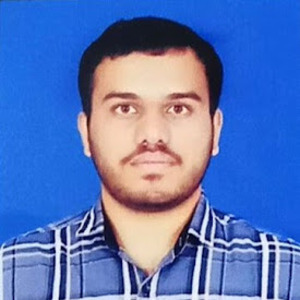
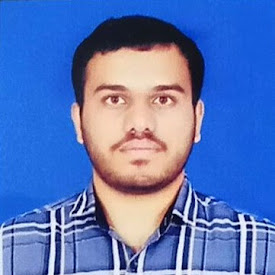
Restore original author images and use CSS for sizing and text justification

diff --git a/DEMO/README.md b/DEMO/README.md
@@ -2051,11 +2051,11 @@ A structured comparison of the $R_{on}/g_m$ methodology against the $g_m/I_D$ me
 Pre-simulation V<sub>bias</sub> predictions were within <b>±75 mV</b> of post-simulation values; I<sub>peak</sub> predicted within ~15%.
 </div>
 
-<p>† J. Conrad <i>et al.</i>: <i>"Unfortunately, Section II-B is not really practical for designing a RAMP… This makes a design-by-equation cumbersome and not realizable."</i> [TCAS-I 2020, Sec. II-C]</p>
-<p>‡ J. Conrad <i>et al.</i>: <i>"PVT variations are not encountered during the circuit optimization, because this would require many transient simulations to evaluate one iteration of the optimizer."</i> [TCAS-I 2020, Sec. V-E]</p>
-<p>§ Deadzone bias values read from the V<sub>bias</sub> vs. log(R<sub>on</sub>/g<sub>m</sub>) LUT plot at R<sub>on</sub>/g<sub>m</sub> = 50 × 10<sup>6</sup> (per device, post-multiplier), I<sub>bias</sub> = 0.5 µA (unit cell), I<sub>bias</sub> = 2 µA (Overall IBA).</p>
-<p>¶ J. Conrad <i>et al.</i>: <i>"the optimizer goal for the accuracy was readjusted ×4 smaller, i.e. 0.25 for the cost function."</i> [TCAS-I 2020, Sec. IV-B.3]</p>
-<p>** J. Conrad <i>et al.</i>, Table II: 180 nm power cost function = 12.99 (target: 1.0), failing the power constraint by 13×.</p>
+<p style="text-align: justify; margin-bottom: 20px;">† J. Conrad <i>et al.</i>: <i>"Unfortunately, Section II-B is not really practical for designing a RAMP… This makes a design-by-equation cumbersome and not realizable."</i> [TCAS-I 2020, Sec. II-C]</p>
+<p style="text-align: justify; margin-bottom: 20px;">‡ J. Conrad <i>et al.</i>: <i>"PVT variations are not encountered during the circuit optimization, because this would require many transient simulations to evaluate one iteration of the optimizer."</i> [TCAS-I 2020, Sec. V-E]</p>
+<p style="text-align: justify; margin-bottom: 20px;">§ Deadzone bias values read from the V<sub>bias</sub> vs. log(R<sub>on</sub>/g<sub>m</sub>) LUT plot at R<sub>on</sub>/g<sub>m</sub> = 50 × 10<sup>6</sup> (per device, post-multiplier), I<sub>bias</sub> = 0.5 µA (unit cell), I<sub>bias</sub> = 2 µA (Overall IBA).</p>
+<p style="text-align: justify; margin-bottom: 20px;">¶ J. Conrad <i>et al.</i>: <i>"the optimizer goal for the accuracy was readjusted ×4 smaller, i.e. 0.25 for the cost function."</i> [TCAS-I 2020, Sec. IV-B.3]</p>
+<p style="text-align: justify; margin-bottom: 20px;">** J. Conrad <i>et al.</i>, Table II: 180 nm power cost function = 12.99 (target: 1.0), failing the power constraint by 13×.</p>
 <p style="margin-top:6px;">
   <img src="https://raw.githubusercontent.com/chennakeshavadasa/gmid_IHP130/refs/heads/main/Plots_Images/Notebook_Figs/happy.svg" width="16" height="16"/> = fully supported / available pre-simulation &nbsp;&nbsp;
   <img src="https://raw.githubusercontent.com/chennakeshavadasa/gmid_IHP130/refs/heads/main/Plots_Images/Notebook_Figs/sad.svg" width="16" height="16"/> = not available / requires post-simulation discovery
@@ -2111,43 +2111,43 @@ This distinction becomes especially significant for dynamic amplifier design, wh
 
 ## About the Authors
 
-<p>
-<a href="https://www.linkedin.com/in/nithin-purushothama-5b236113b" target="_blank"><img src="https://raw.githubusercontent.com/chennakeshavadasa/CAC/main/DEMO/assets/NithinPurushothama_pic.jpg" align="left" width="120" style="margin-right: 15px;" /></a>
+<p style="text-align: justify; margin-bottom: 20px;">
+<a href="https://www.linkedin.com/in/nithin-purushothama-5b236113b" target="_blank"><img src="https://raw.githubusercontent.com/chennakeshavadasa/CAC/main/DEMO/assets/NithinPurushothama_pic.jpg" align="left" style="width: 120px; height: 150px; object-fit: cover; object-position: top; margin-right: 15px; border-radius: 8px;" /></a>
 <strong>Nithin Purushothama</strong> received the B.Tech. degree in electronics and communication engineering from Visvesvaraya Technological University (VTU), India, in 2025. He is currently working as an Analog Design Engineer at Omni Design Technologies, Bengaluru, India. He previously worked as a Research Intern at the Low-Power Circuits and Systems (LP-CAS) Lab, IIT Gandhinagar, under the guidance of Prof. Madhav K. Pathak, where he worked on ring amplifiers and their applications in low-power LDOs. His research interests include high-speed and low-power data converters, dynamic and ring amplifiers, biomedical and wearable circuits, energy-efficient circuits for sensing and computation, algorithm–circuit co-design and emerging computing architectures. He is currently seeking Ph.D. opportunities for Fall 2027 in analog and mixed-signal integrated circuits and related areas.
 <br clear="all" />
 </p>
 <br>
 
-<p>
-<a href="https://www.linkedin.com/in/pramoda-s-r-9946891a2" target="_blank"><img src="https://raw.githubusercontent.com/chennakeshavadasa/CAC/main/DEMO/assets/Pramoda_SR_pic.jpg" align="left" width="120" style="margin-right: 15px;" /></a>
+<p style="text-align: justify; margin-bottom: 20px;">
+<a href="https://www.linkedin.com/in/pramoda-s-r-9946891a2" target="_blank"><img src="https://raw.githubusercontent.com/chennakeshavadasa/CAC/main/DEMO/assets/Pramoda_SR_pic.jpg" align="left" style="width: 120px; height: 150px; object-fit: cover; object-position: top; margin-right: 15px; border-radius: 8px;" /></a>
 <strong>Pramoda S R</strong> is currently working as an AI Engineer, with experience in machine learning, deep learning, computer vision, and AI-based application development. His research interests include artificial intelligence and deep learning, with an emphasis on computer vision, real-time inference systems, generative AI, and intelligent applications.
 <br clear="all" />
 </p>
 <br>
 
-<p>
-<a href="https://www.linkedin.com/search/results/all/?keywords=Suyajnaa%20Jagannath%20Gowda" target="_blank"><img src="https://raw.githubusercontent.com/chennakeshavadasa/CAC/main/DEMO/assets/Suyajnaa_Pic.jpeg" align="left" width="120" style="margin-right: 15px;" /></a>
+<p style="text-align: justify; margin-bottom: 20px;">
+<a href="https://www.linkedin.com/search/results/all/?keywords=Suyajnaa%20Jagannath%20Gowda" target="_blank"><img src="https://raw.githubusercontent.com/chennakeshavadasa/CAC/main/DEMO/assets/Suyajnaa_Pic.jpeg" align="left" style="width: 120px; height: 150px; object-fit: cover; object-position: top; margin-right: 15px; border-radius: 8px;" /></a>
 <strong>Suyajnaa Jagannath Gowda</strong> is currently pursuing the B.E. degree in electronics and communication engineering at The National Institute of Engineering, Mysore, India. Her research interests include analog and mixed-signal circuits, silicon photonics, optical sensing, embedded systems, machine learning, and signal processing. Her work includes silicon photonics-based micro-ring resonator gyroscopes, satellite telemetry analysis, MATLAB-based underwater acoustic systems, and ESP32-based intelligent IC testing.
 <br clear="all" />
 </p>
 <br>
 
-<p>
-<a href="https://www.linkedin.com/search/results/all/?keywords=Runpeng%20Gao" target="_blank"><img src="https://raw.githubusercontent.com/chennakeshavadasa/CAC/main/DEMO/assets/Runpeng_Gao_pic.jpeg" align="left" width="120" style="margin-right: 15px;" /></a>
+<p style="text-align: justify; margin-bottom: 20px;">
+<a href="https://www.linkedin.com/search/results/all/?keywords=Runpeng%20Gao" target="_blank"><img src="https://raw.githubusercontent.com/chennakeshavadasa/CAC/main/DEMO/assets/Runpeng_Gao_pic.jpeg" align="left" style="width: 120px; height: 150px; object-fit: cover; object-position: top; margin-right: 15px; border-radius: 8px;" /></a>
 <strong>Runpeng Gao</strong> received the M.S. degree from Nanjing University, Nanjing, China, in 2023. He is currently pursuing the Ph.D. degree in electrical and computer engineering at Oregon State University, Corvallis, OR, USA. His research interests include high-performance analog and mixed-signal integrated circuits, with an emphasis on high-resolution and high-speed analog-to-digital converters (ADCs) and low-dropout regulators (LDOs).
 <br clear="all" />
 </p>
 <br>
 
-<p>
-<a href="https://www.linkedin.com/search/results/all/?keywords=Praveen%20Kumar%20Venkatachala" target="_blank"><img src="https://raw.githubusercontent.com/chennakeshavadasa/CAC/main/DEMO/assets/Praveen_Kumar_pic.jpg" align="left" width="120" style="margin-right: 15px;" /></a>
+<p style="text-align: justify; margin-bottom: 20px;">
+<a href="https://www.linkedin.com/search/results/all/?keywords=Praveen%20Kumar%20Venkatachala" target="_blank"><img src="https://raw.githubusercontent.com/chennakeshavadasa/CAC/main/DEMO/assets/Praveen_Kumar_pic.jpg" align="left" style="width: 120px; height: 150px; object-fit: cover; object-position: top; margin-right: 15px; border-radius: 8px;" /></a>
 <strong>Praveen Kumar Venkatachala</strong> I am a PhD Graduate student from Oregon State University. I am presently working as a part of analog integrated circuits design group in AIS (Artificial Intelligence Solutions) division of Skyworks Solutions Inc. in Hillsboro, Oregon. We work on innovative and challenging analog system on chips (ASoCs) for smart speakers/microphones, gaming controllers, wired/wireless headsets and many more products involving audio and voice technology.
 <br clear="all" />
 </p>
 <br>
 
-<p>
-<a href="https://iitgn.ac.in/faculty/ee/fac-madhav" target="_blank"><img src="https://raw.githubusercontent.com/chennakeshavadasa/CAC/main/DEMO/assets/Madhav_K_Pathak_pic.jpg" align="left" width="120" style="margin-right: 15px;" /></a>
+<p style="text-align: justify; margin-bottom: 20px;">
+<a href="https://iitgn.ac.in/faculty/ee/fac-madhav" target="_blank"><img src="https://raw.githubusercontent.com/chennakeshavadasa/CAC/main/DEMO/assets/Madhav_K_Pathak_pic.jpg" align="left" style="width: 120px; height: 150px; object-fit: cover; object-position: top; margin-right: 15px; border-radius: 8px;" /></a>
 <strong>Madhav K. Pathak</strong> received the B.Tech. degree in electrical engineering from the Indian Institute of Technology Roorkee, Roorkee, India, in 2016, and the Ph.D. degree in microelectronics from Iowa State University, Ames, IA, USA, in 2022. He is currently an Assistant Professor in the Department of Electrical Engineering at the Indian Institute of Technology Gandhinagar, Gandhinagar, India. His research interests include power management integrated circuits, analog and mixed-signal integrated circuits, ambient micro-power energy harvesting, and IoT sensor systems, with an emphasis on low-power circuit design and energy-efficient power management for batteryless and low-power applications.
 <br clear="all" />
 </p>
